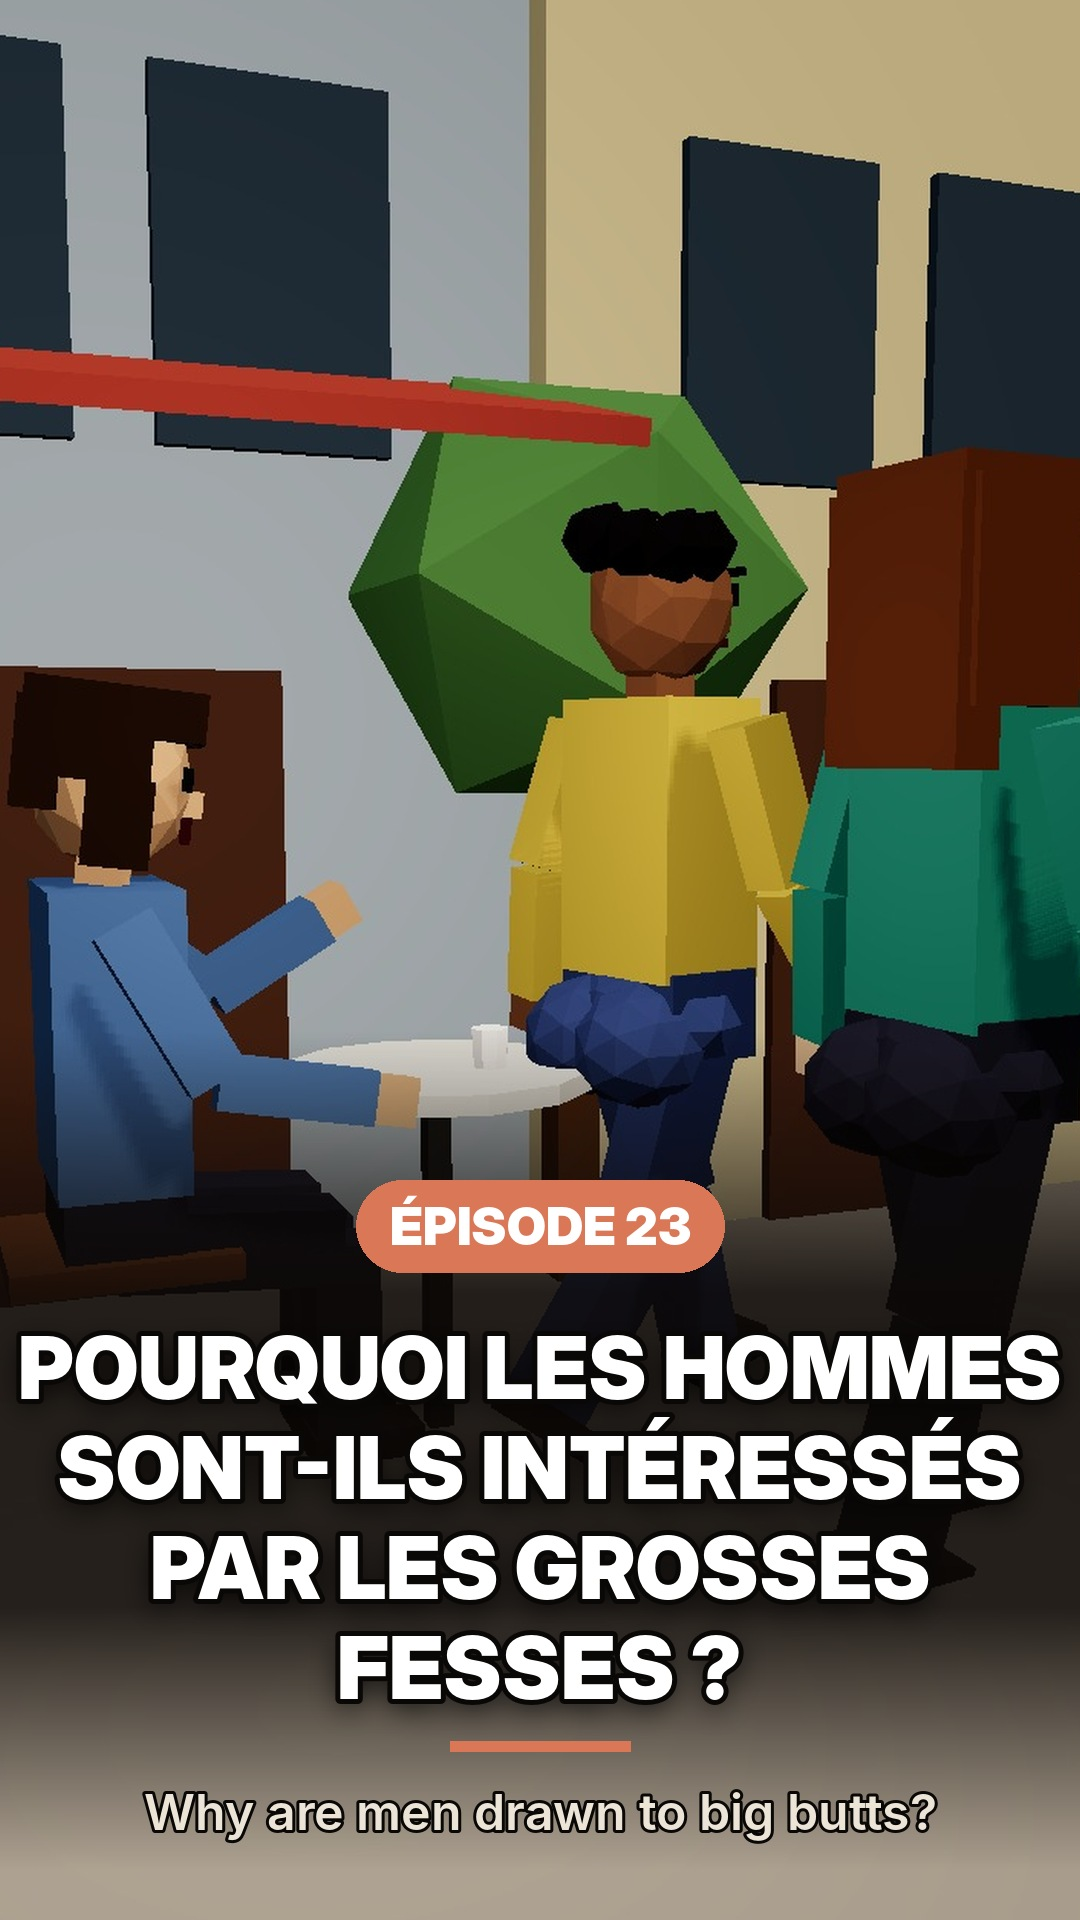
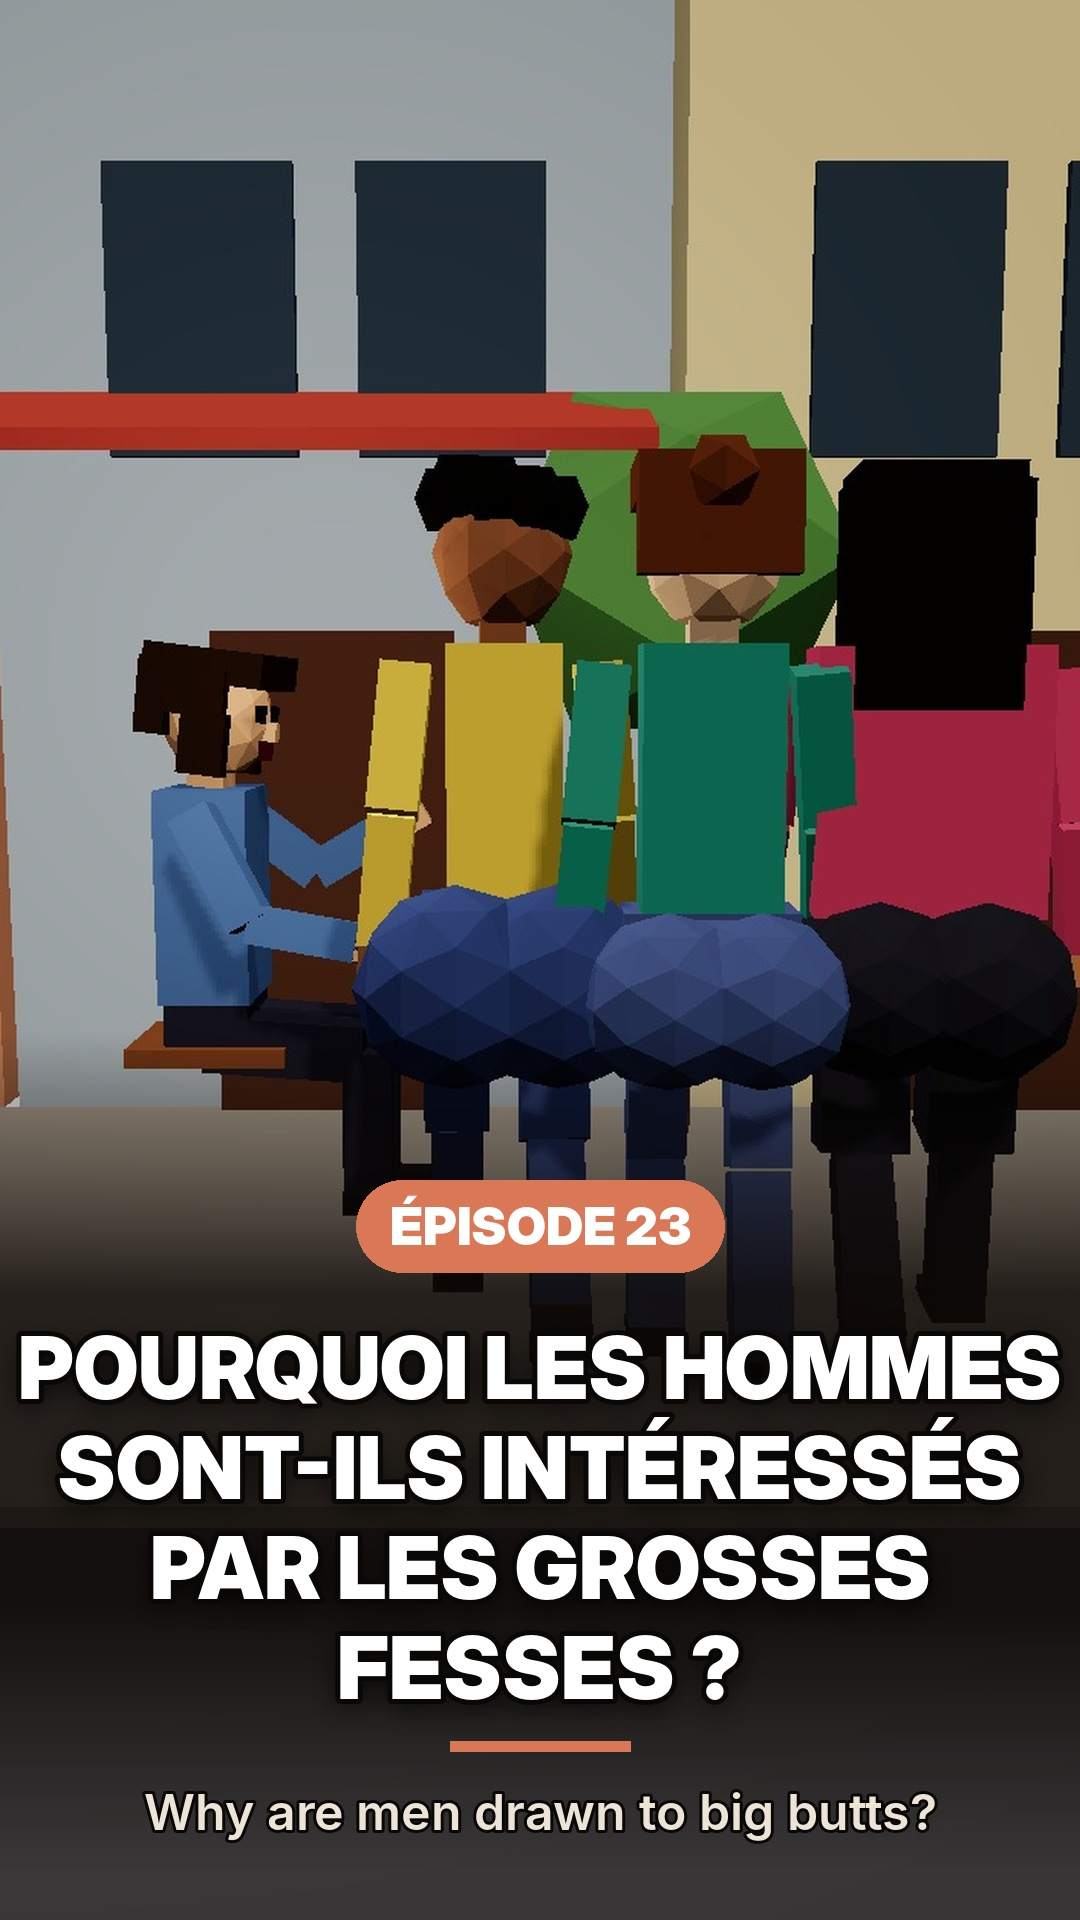
Épisode 23 : trois silhouettes (ronde, mince, type BBL) vues de dos, couverture mise à jour
Claude-Session: https://claude.ai/code/session_01Vihxwry9nwKDrZZznKang6

diff --git a/ep23/web/body.js b/ep23/web/body.js
@@ -51,7 +51,25 @@ function curvy(h, k = 1, mat) {
   h.root.traverse(o => { if (o.isMesh) o.castShadow = true; });
   return h;
 }
-function woman(o, k = 1) { const h = new Human(o); return curvy(h, k); }
+// trois silhouettes differentes, toutes avec un fessier volumineux : ronde, mince, type BBL
+function woman(o, type = 'mince') {
+  const h = curvy(new Human(o), 1);
+  const P = {
+    ronde: { torso: [1.2, 1.3], arms: 1.15, hips: [1.5, 1.3], butt: Math.cbrt(3) * 1.05, bx: 1.3, bz: -0.08, thigh: [1.35, 1.3], hipX: 1.2, belly: true },
+    mince: { torso: [0.72, 0.85], arms: 0.85, hips: [1.15, 1.0], butt: Math.cbrt(3), bx: 1.1, bz: -0.06, thigh: [0.9, 0.95], hipX: 1.0 },
+    bbl: { torso: [0.62, 0.8], arms: 0.8, hips: [1.5, 1.1], butt: Math.cbrt(3) * 1.2, bx: 1.25, bz: -0.1, thigh: [1.05, 1.0], hipX: 1.05 },
+  }[type];
+  h.spine.children[0].scale.set(P.torso[0], 1, P.torso[1]);
+  for (const k of ['L', 'R']) { h.sh[k].position.x *= P.arms; h.hip[k].position.x *= P.hipX; h.hip[k].children[0].scale.set(P.thigh[0], 1, P.thigh[1]); }
+  h.pelvis.children.forEach(m => {
+    if (!m.isMesh || m.geometry.type !== 'IcosahedronGeometry') return;
+    if (m.position.z < -0.05) { m.scale.multiplyScalar(P.butt); m.position.z += P.bz; m.position.y -= 0.02; m.position.x *= P.bx; }
+    else { m.scale.x *= P.hips[0]; m.scale.z *= P.hips[1]; }
+  });
+  if (P.belly) h.spine.add(at(new THREE.Mesh(new THREE.IcosahedronGeometry(0.15, 1), h.mats.top), 0, 0.12, 0.08));
+  h.root.traverse(m => { if (m.isMesh) m.castShadow = true; });
+  return h;
+}
 function holoWoman(color, k, op = 0.3) {
   const h = new Human({ holo: color, hairStyle: 'long', robe: color, robeL: 0.5, seed: 9 });
   curvy(h, k, holoMat(color, 0.45));
@@ -73,31 +91,32 @@ function street(scene) {
 }
 const looksW = [
   { skin: 0x8a5a3a, hair: 0x141010, hairStyle: 'curly', top: 0xe0c040, bottom: 0x3a4a7a, seed: 2301 },
-  { skin: 0xf0c8a0, hair: 0x6a3a1a, hairStyle: 'long', top: 0x3a8a7a, bottom: 0x2a2a3a, seed: 2302 },
+  { skin: 0xf0c8a0, hair: 0x6a3a1a, hairStyle: 'bun', top: 0x3a8a7a, bottom: 0x4a5a8a, seed: 2302 },
+  { skin: 0xc68a5a, hair: 0x1a1010, hairStyle: 'long', top: 0xc04a6a, bottom: 0x2a2a34, seed: 2305 },
 ];
 function cafeScene(B, o = {}) {
   const { scene } = B; street(scene);
   const man = new Human({ skin: 0xc89a72, hair: 0x2a1a10, hairStyle: 'short', beard: 'side', top: 0x4a6a9a, bottom: 0x2a2a3a, seed: 2303 }); man.place(-1.2, 0, -0.35, Math.PI / 2); scene.add(man.root);
-  const w1 = woman(looksW[0], 1.1), w2 = woman(looksW[1], 1.0); scene.add(w1.root, w2.root);
-  return { man, w1, w2 };
+  const w1 = woman(looksW[0], 'bbl'), w2 = woman(looksW[1], 'mince'), w3 = woman(looksW[2], 'ronde'); scene.add(w1.root, w2.root, w3.root);
+  return { man, w1, w2, w3 };
 }
 
 // ---------- intro : la terrasse
 SETS.intro = () => {
   const B = base({ sky: [0x7ab8e8, 0xe8f0f8], hemi: [0xffffff, 0x6a6050, 1.1], sun: [0xfff0d8, 1.6, [4, 8, 5]], shadowSize: 6, bloom: [0.3, 0.5, 0.93], exposure: 1.05, target: [0, 0.8, 0] });
-  const { scene, cam } = B; const { man, w1, w2 } = cafeScene(B);
+  const { scene, cam } = B; const { man, w1, w2, w3 } = cafeScene(B);
   faceLight(scene, [-0.6, 1.5, 0.8], 1.4);
-  const rig = claudeRig(scene, [0.9, 0, 1.4], -0.4, [-0.45, 0, 0.1], 0x55e6ff, 0.45, 0.28); rig.pr.visible = false;
+  const rig = claudeRig(scene, [-0.9, 0, 1.6], -0.6, [-0.45, 0, 0.1], 0x55e6ff, 0.45, 0.28); rig.pr.visible = false; rig.c.g.visible = false;
   return {
     ...B, update(t) {
-      const x1 = lerp(-0.1, 1.5, t / 10), x2 = x1 - 0.55;
-      w1.place(x1, 0, 0.1, Math.PI / 2); w2.place(x2, 0, -0.25, Math.PI / 2);
-      w1.pose(L.walkPose(t * 4, 0.6)); w2.pose(L.walkPose(t * 4 + 1.3, 0.6)); w1.face(0, 'happy', t); w2.face(0, 'neutral', t);
+      const z1 = lerp(1.7, -0.6, t / 10);
+      w1.place(-0.4, 0, z1, Math.PI + 0.05); w2.place(0.03, 0, z1 + 0.2, Math.PI); w3.place(0.5, 0, z1 + 0.05, Math.PI - 0.05);
+      w1.pose(L.walkPose(t * 4, 0.6)); w2.pose(L.walkPose(t * 4 + 1.3, 0.6)); w3.pose(L.walkPose(t * 4 + 2.4, 0.6)); w3.face(0, 'happy', t); w1.face(0, 'happy', t); w2.face(0, 'neutral', t);
       // la tete de l'homme suit les passantes
       const look = 0.15 * sstep(1, 4, t);
       man.pose(L.sitPose(0.46, { aL: [0.9, 0.1], aR: [0.5, 0.15], eL: 1.2, eR: 0.9, hy: -look * 0.6, hp: 0.05 })); man.face(0, 'neutral', t);
       rig.c.update(t, env('claude', t), {});
-      camKeys(cam, t, [{ t: 0, p: [-0.45, 1.35, 4.4], l: [-0.35, 0.95, -0.1], f: 46 }, { t: C.title, p: [0.0, 1.3, 4.6], l: [0.1, 0.9, 0.3], f: 46 }, { t: SC.venus.start, p: [0.1, 1.3, 4.7], l: [0.2, 0.9, 0.3], f: 46 }]);
+      camKeys(cam, t, [{ t: 0, p: [-0.3, 1.45, 4.9], l: [-0.3, 1.0, 0.3], f: 56 }, { t: C.title, p: [-0.3, 1.5, 4.6], l: [-0.3, 1.0, 0.0], f: 56 }, { t: SC.venus.start, p: [-0.3, 1.5, 4.55], l: [-0.3, 1.0, 0.0], f: 56 }]);
     }
   };
 };
@@ -259,8 +278,8 @@ SETS.culture = () => {
 };
 SETS.cafe = () => {
   const B = base({ sky: [0x7ab8e8, 0xe8f0f8], hemi: [0xffffff, 0x6a6050, 1.1], sun: [0xfff0d8, 1.6, [4, 8, 5]], shadowSize: 6, bloom: [0.3, 0.5, 0.93], exposure: 1.05, target: [0, 0.8, 0] });
-  const { scene, cam } = B; const { man, w1, w2 } = cafeScene(B);
-  w2.root.visible = false;
+  const { scene, cam } = B; const { man, w1, w2, w3 } = cafeScene(B);
+  w2.root.visible = false; w3.root.visible = false;
   faceLight(scene, [-0.3, 1.6, 0.9], 1.8);
   const K = cardsMgr(scene, cam);
   imagined(K, 'personnages imaginés', C.nadia - 0.2, SC.fin.start);
@@ -296,14 +315,14 @@ SETS.fin = () => {
 // ---------- couverture : un homme de profil regarde deux femmes de dos
 SETS.cover = () => {
   const B = base({ sky: [0x7ab8e8, 0xe8f0f8], hemi: [0xffffff, 0x6a6050, 1.15], sun: [0xfff0d8, 1.6, [2, 8, 6]], shadowSize: 6, bloom: [0.3, 0.5, 0.93], exposure: 1.05, target: [0, 0.8, 0] });
-  const { scene, cam } = B; const { man, w1, w2 } = cafeScene(B);
+  const { scene, cam } = B; const { man, w1, w2, w3 } = cafeScene(B);
   faceLight(scene, [-1.0, 1.5, 0.6], 1.6);
   return {
     ...B, update(t) {
-      w1.place(-0.1, 0, -0.25, Math.PI / 2 + 0.25); w2.place(0.15, 0, 0.45, Math.PI / 2 + 0.1);
-      w1.pose(L.walkPose(1.0, 0.8)); w2.pose(L.walkPose(2.4, 0.8));
+      w1.place(-0.4, 0, 0.55, Math.PI + 0.05); w2.place(0.03, 0, 0.75, Math.PI); w3.place(0.5, 0, 0.6, Math.PI - 0.05);
+      w1.pose(L.walkPose(1.0, 0.8)); w2.pose(L.walkPose(2.4, 0.8)); w3.pose(L.walkPose(3.5, 0.8));
       man.pose(L.sitPose(0.46, { aL: [0.9, 0.1], aR: [0.5, 0.15], eL: 1.2, eR: 0.9, hy: -0.15, hp: 0.12 })); man.face(0, 'awe', t);
-      cam.position.set(-1.6, 1.4, 2.9); cam.fov = 50; cam.updateProjectionMatrix(); cam.lookAt(-0.32, 1.05, -0.1);
+      cam.position.set(-0.32, 1.4, 4.4); cam.fov = 58; cam.updateProjectionMatrix(); cam.lookAt(-0.32, 0.75, 0.1);
     }
   };
 };
